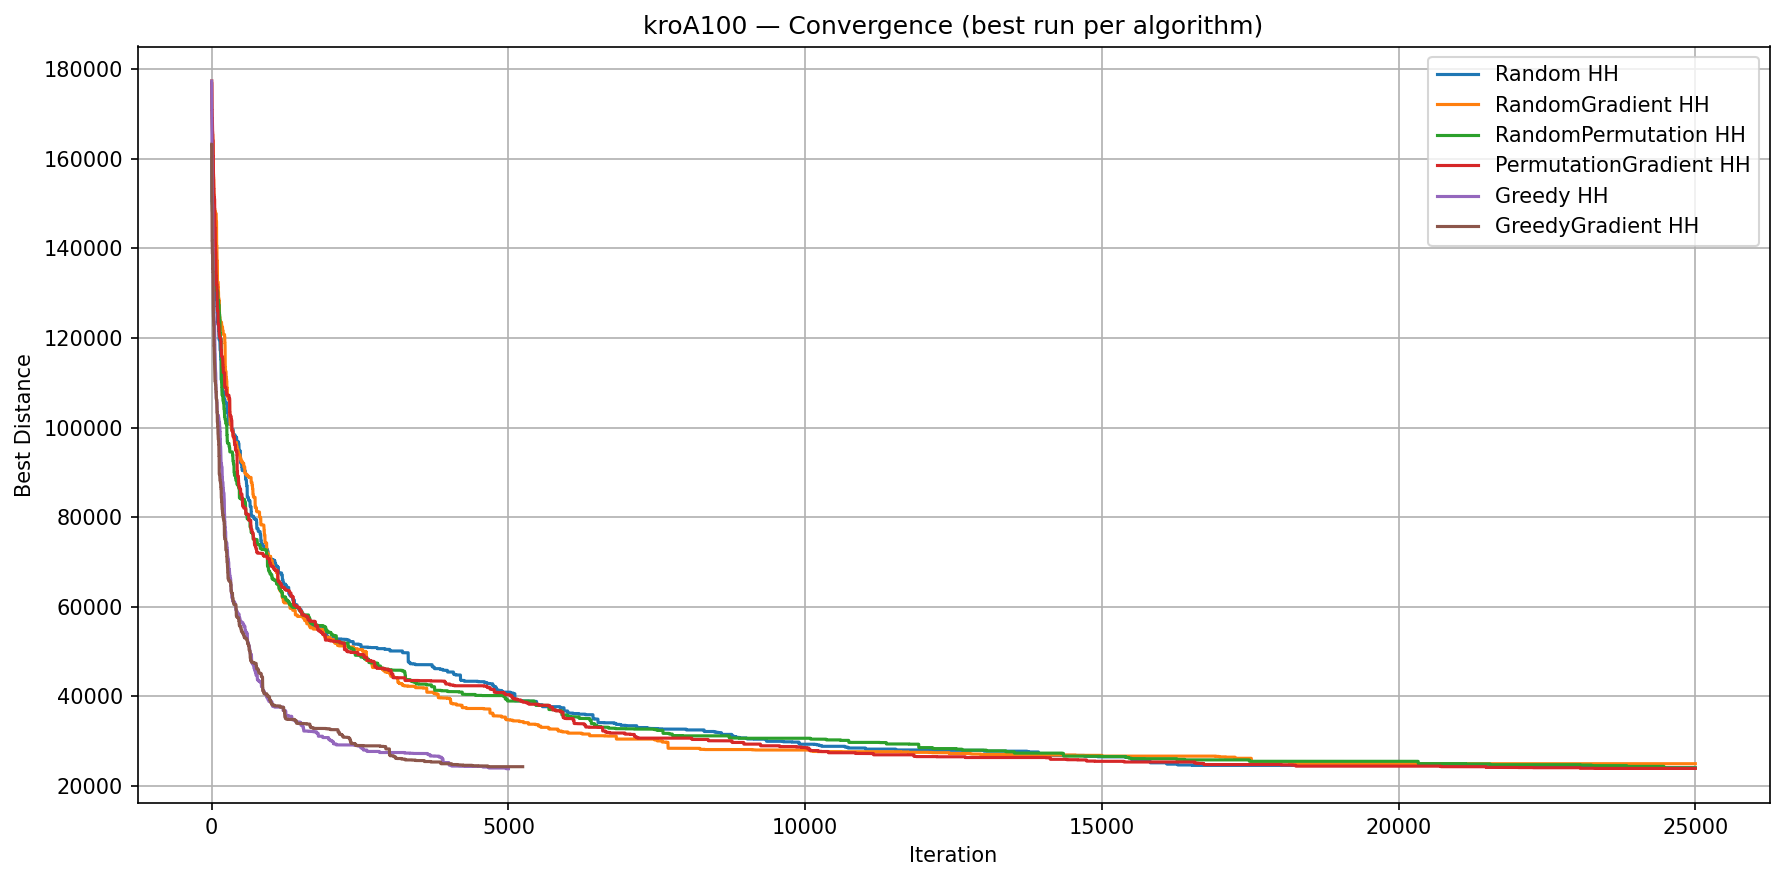
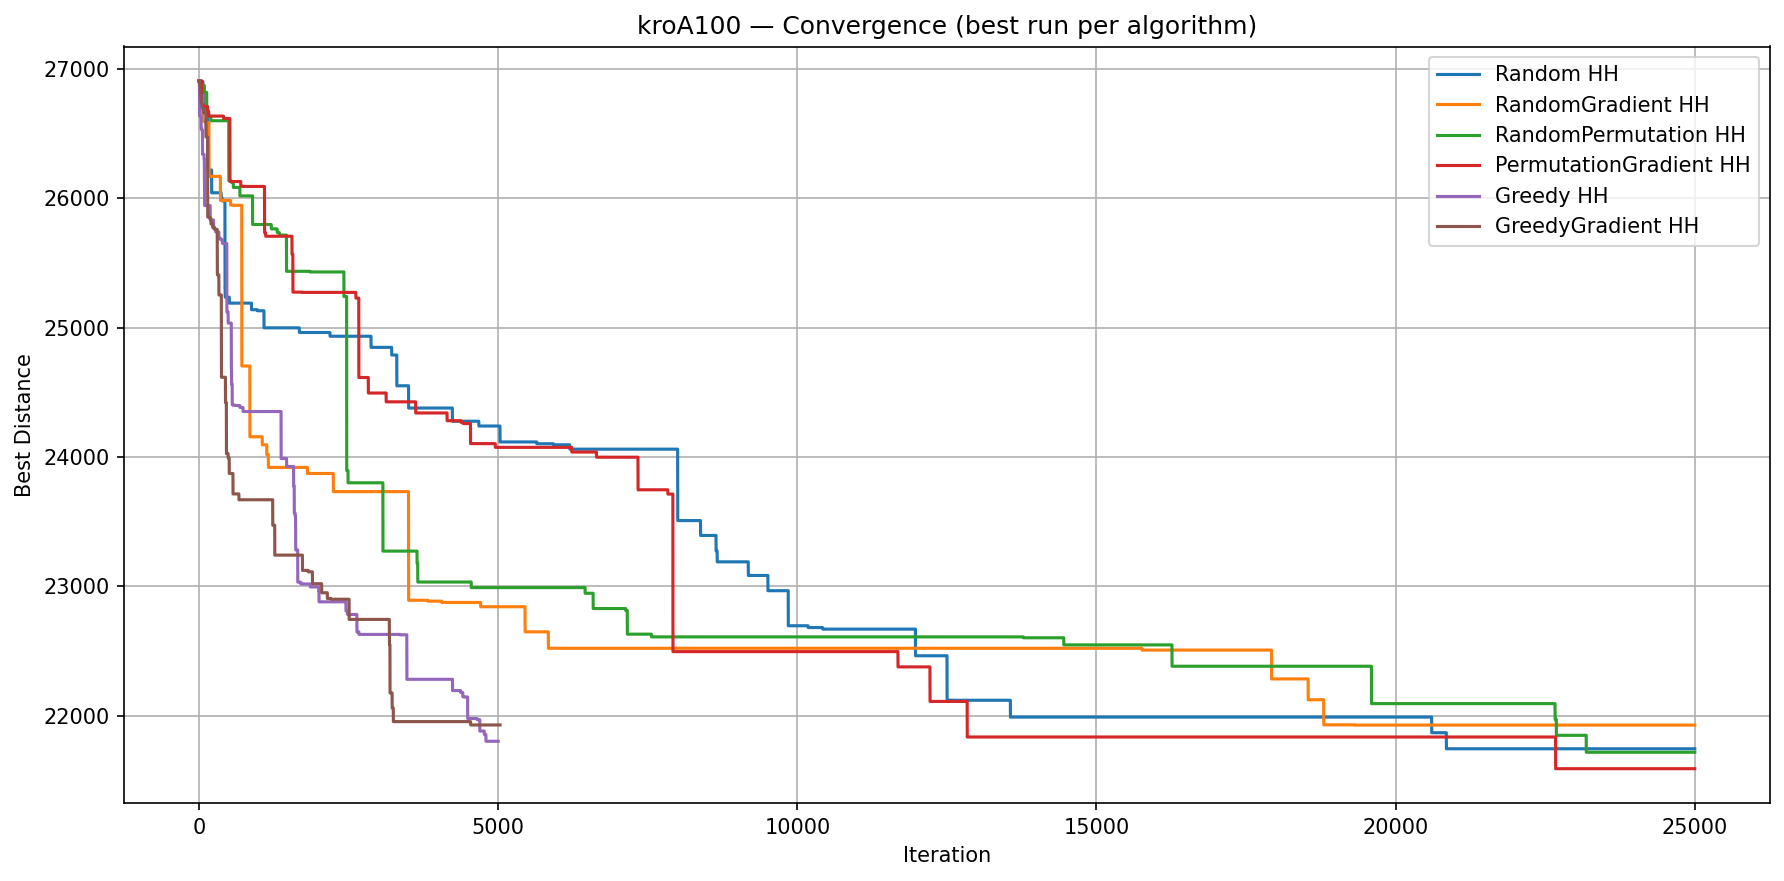
Added greedy route, fixed basic heuristics, fixed the info in the end

diff --git a/main.py b/main.py
@@ -14,7 +14,6 @@ DATASETS = [
     "kroA100"]
 
 
-
 # Loads tsplib datasets. Will probably be deprecated later
 def load_problem(name):
     problem = tsplib95.load(f"datasets/{name}.tsp")
@@ -43,6 +42,21 @@ def random_route(cities):
     random.shuffle(route)
     return route
 
+# Greedy route.
+def greedy_route(cities, distance_matrix):
+    unvisited = set(cities)
+    start = random.choice(cities)
+    route = [start]
+    unvisited.remove(start)
+
+    while unvisited:
+        current = route[-1]
+        nearest = min(unvisited, key=lambda c: distance_matrix[(current, c)])
+        route.append(nearest)
+        unvisited.remove(nearest)
+
+    return route
+
 
 # Swap two nodes
 def swap(route):
@@ -63,6 +77,9 @@ def insertion(route):
 def segment_shuffle(route):
     new_route = route[:]
     i, j = sorted(random.sample(range(len(route)), 2))
+    # Ensure minimum segment size of at least 5 for meaningful shuffling
+    if j - i < 5:
+        j = min(i + random.randint(5, max(6, len(route) // 3)), len(route))
     segment = new_route[i:j]
     random.shuffle(segment)
     new_route[i:j] = segment
@@ -71,45 +88,45 @@ def segment_shuffle(route):
 def two_opt(route):
     new_route = route[:]
     i, j = sorted(random.sample(range(len(route)), 2))
-    if j - i < 2:
-        return new_route
-    new_route[i:j] = reversed(new_route[i:j])
+    if j - i < 4:
+        j = i + 4  # Ensure at least 2 cities are swapped
+    new_route[i:j] = list(reversed(new_route[i:j]))
     return new_route
 
-def adjacent_swap(route):
-    new_route = route[:]
-    i = random.randint(0, len(route)-2)
-    new_route[i], new_route[i+1] = (new_route[i+1], new_route[i])
-    return new_route
+# def adjacent_swap(route):
+#     new_route = route[:]
+#     i = random.randint(0, len(route)-1)
+#     next_i = (i + 1) % len(route)
+#     new_route[i], new_route[next_i] = (new_route[next_i], new_route[i])
+#     return new_route
 
-# Defeats the purpose of Random Gradient
-def two_opt_local_search(route):
-    best_route = route[:]
-    best_distance = route_distance(best_route)
-    improved = True
+# Not sure if this is acceptable. Has basically built in Random Gradient
+# def two_opt_local_search(route):
+#     best_route = route[:]
+#     best_distance = route_distance(best_route)
+#     improved = True
 
-    while improved:
-        improved = False
-        for i in range(len(route) - 1):
-            for j in range(i + 2, len(route)):
+#     while improved:
+#         improved = False
+#         for i in range(len(route) - 1):
+#             for j in range(i + 2, len(route)):
 
-                candidate = best_route[:]
-                candidate[i:j] = reversed(candidate[i:j])
-                candidate_distance = route_distance(candidate)
+#                 candidate = best_route[:]
+#                 candidate[i:j] = reversed(candidate[i:j])
+#                 candidate_distance = route_distance(candidate)
 
-                if candidate_distance < best_distance:
-                    best_route = candidate
-                    best_distance = candidate_distance
-                    improved = True
+#                 if candidate_distance < best_distance:
+#                     best_route = candidate
+#                     best_distance = candidate_distance
+#                     improved = True
 
-        route = best_route
-    return best_route
+#         route = best_route
+#     return best_route
 
 tsp_heuristics = [
     ("swap", swap),
     ("insertion", insertion),
     ("segment_shuffle", segment_shuffle),
-    ("adjacent swap", adjacent_swap),
     ("two opt", two_opt),]
 
 
@@ -124,8 +141,8 @@ def initialize_stats():
 
 
 def random_hyperheuristic(initial_solution, objective_fn, heuristics, iterations=25000):
-    # objective_fn(solution) -> float, always minimised.
-    # For maximisation problems (e.g. knapsack), pass a negated objective.
+    # minimises the objective function.
+    # For maximisation problems should use a negative function.
 
     current = initial_solution[:]
     current_cost = objective_fn(current)
@@ -178,7 +195,7 @@ def random_hyperheuristic(initial_solution, objective_fn, heuristics, iterations
 
 def random_gradient(initial_solution, objective_fn, heuristics, iterations=25000):
     # objective_fn(solution) is always minimised.
-    # For maximisation problems like knapsack, we should oprimise for a negative value.
+    # For maximisation problems like knapsack, use a negative objective.
 
     current = initial_solution[:]
     current_cost = objective_fn(current)
@@ -234,8 +251,7 @@ def random_gradient(initial_solution, objective_fn, heuristics, iterations=25000
 
 
 def random_permutation(initial_solution, objective_fn, heuristics, iterations=25000):
-    # At each step, applies heuristics in a freshly shuffled order (one per iteration).
-    # A new permutation is generated each time the previous one is exhausted.
+    # At each step, applies heuristics in a new shuffled order.
 
     current = initial_solution[:]
     current_cost = objective_fn(current)
@@ -291,12 +307,8 @@ def random_permutation(initial_solution, objective_fn, heuristics, iterations=25
             "heuristic_history": heuristic_history,
             "runtime": runtime}
 
-
+# Creates a random heuristic list, but keeps applying the current heuristic as long as it keeps improving.
 def permutation_gradient(initial_solution, objective_fn, heuristics, iterations=25000):
-    # Follows a shuffled permutation order, but keeps applying the current heuristic
-    # as long as it keeps improving. Only advances in the permutation on failure.
-    # A new permutation is generated once the current one is exhausted.
-
     current = initial_solution[:]
     current_cost = objective_fn(current)
     best = current[:]
@@ -318,7 +330,7 @@ def permutation_gradient(initial_solution, objective_fn, heuristics, iterations=
         candidate = heuristic(current)
         candidate_cost = objective_fn(candidate)
 
-        # Improvement found: stay with this heuristic
+        # Improvement found: keep heuristic
         if candidate_cost < current_cost:
 
             gain = current_cost - candidate_cost
@@ -330,7 +342,7 @@ def permutation_gradient(initial_solution, objective_fn, heuristics, iterations=
             if gain > heuristic_stats[heuristic_name]["best_single_gain"]:
                 heuristic_stats[heuristic_name]["best_single_gain"] = gain
 
-        # No improvement: advance to next in permutation
+        # No improvement
         else:
 
             perm_index += 1
@@ -355,9 +367,8 @@ def permutation_gradient(initial_solution, objective_fn, heuristics, iterations=
             "heuristic_history": heuristic_history,
             "runtime": runtime}
 
-
+# Each iteration applies all heuristics to the current solution and accepts the one that gives the best improvement.
 def greedy(initial_solution, objective_fn, heuristics, iterations=25000):
-    # Each iteration applies all heuristics to the current solution and accepts the one with the best.
     current = initial_solution[:]
     current_cost = objective_fn(current)
     best = current[:]
@@ -419,9 +430,7 @@ def greedy(initial_solution, objective_fn, heuristics, iterations=25000):
 
 
 def greedy_gradient(initial_solution, objective_fn, heuristics, iterations=25000):
-    # Runs a greedy round to find the best heuristic, then keeps applying it
-    # as long as it improves. When a full greedy round finds no improvement,
-    # a new greedy round is run to pick the next best heuristic.
+    # Runs a greedy round to find the best heuristic, then keeps applying it as long as it improves.
 
     current = initial_solution[:]
     current_cost = objective_fn(current)
@@ -552,93 +561,93 @@ def greedy_gradient(initial_solution, objective_fn, heuristics, iterations=25000
             "heuristic_history": heuristic_history,
             "runtime": runtime}
 
+if __name__ == "__main__":
+    all_results = []
 
-all_results = []
+    for dataset_name in DATASETS:
 
-for dataset_name in DATASETS:
+        print(f"Dataset: {dataset_name}")
+        problem, cities, distance_matrix = load_problem(dataset_name)
 
-    print(f"Dataset: {dataset_name}")
-    problem, cities, distance_matrix = load_problem(dataset_name)
+        # TSP objective: minimise total route distance
+        def tsp_objective(route):
+            return route_distance(route, distance_matrix)
 
-    # TSP objective: minimise total route distance
-    def tsp_objective(route):
-        return route_distance(route, distance_matrix)
+        algorithms = [
+            ("Random HH",            random_hyperheuristic),
+            ("RandomGradient HH",    random_gradient),
+            ("RandomPermutation HH", random_permutation),
+            ("PermutationGradient HH", permutation_gradient),
+            ("Greedy HH",            greedy),
+            ("GreedyGradient HH",    greedy_gradient),]
 
-    algorithms = [
-        ("Random HH",            random_hyperheuristic),
-        ("RandomGradient HH",    random_gradient),
-        ("RandomPermutation HH", random_permutation),
-        ("PermutationGradient HH", permutation_gradient),
-        ("Greedy HH",            greedy),
-        ("GreedyGradient HH",    greedy_gradient),
-    ]
+        all_run_results = {label: [] for label, _ in algorithms}
 
-    all_run_results = {label: [] for label, _ in algorithms}
+        # How the starting route is selected
+        initial = greedy_route(cities, distance_matrix)
+        # initial = random_route(cities)
 
-    for run in range(RUNS):
+        for run in range(RUNS):
 
-        print(f"Run {run + 1}/{RUNS}")
-
-        random.seed(SEED + run)
-        np.random.seed(SEED + run)
-        initial = random_route(cities)
-
-        for label, runner in algorithms:
+            print(f"Run {run + 1}/{RUNS}")
             random.seed(SEED + run)
             np.random.seed(SEED + run)
-            result = runner(initial, tsp_objective, tsp_heuristics, ITERATIONS)
-            all_run_results[label].append(result)
 
-    # --- Print summary stats for each algorithm ---
-    dataset_row = {"dataset": dataset_name}
+            for label, runner in algorithms:
+                random.seed(SEED + run)
+                np.random.seed(SEED + run)
+                result = runner(initial, tsp_objective, tsp_heuristics, ITERATIONS)
+                all_run_results[label].append(result)
 
-    for label, _ in algorithms:
-        costs = [r["best_cost"] for r in all_run_results[label]]
-        slug = label.lower().replace(" ", "_")
+        dataset_row = {"dataset": dataset_name}
 
-        print(f"\n{label}")
-        print("Average:", np.mean(costs))
-        print("Std:    ", np.std(costs))
-        print("Best:   ", np.min(costs))
+        for label, _ in algorithms:
+            costs = [r["best_cost"] for r in all_run_results[label]]
+            slug = label.lower().replace(" ", "_")
 
-        dataset_row[f"{slug}_avg"]  = np.mean(costs)
-        dataset_row[f"{slug}_std"]  = np.std(costs)
-        dataset_row[f"{slug}_best"] = np.min(costs)
+            print(f"\n{label}")
+            print("Average:", np.mean(costs))
+            print("Std:    ", np.std(costs))
+            print("Best:   ", np.min(costs))
 
-    all_results.append(dataset_row)
+            dataset_row[f"{slug}_avg"]  = np.mean(costs)
+            dataset_row[f"{slug}_std"]  = np.std(costs)
+            dataset_row[f"{slug}_best"] = np.min(costs)
 
-    plt.figure(figsize=(12, 6))
+        all_results.append(dataset_row)
 
-    for label, _ in algorithms:
-        best_result = min(all_run_results[label], key=lambda r: r["best_cost"])
-        plt.plot(best_result["history"], label=label)
+        plt.figure(figsize=(12, 6))
 
-    plt.xlabel("Iteration")
-    plt.ylabel("Best Distance")
-    plt.title(f"{dataset_name} — Convergence (best run per algorithm)")
-    plt.legend()
-    plt.grid(True)
-    plt.tight_layout()
-    plt.savefig(f"{dataset_name}_convergence.png", dpi=150, bbox_inches="tight")
-    plt.close()
+        for label, _ in algorithms:
+            best_result = min(all_run_results[label], key=lambda r: r["best_cost"])
+            plt.plot(best_result["history"], label=label)
 
-    for label, _ in algorithms:
+        plt.xlabel("Iteration")
+        plt.ylabel("Best Distance")
+        plt.title(f"{dataset_name} — Convergence (best run per algorithm)")
+        plt.legend()
+        plt.grid(True)
+        plt.tight_layout()
+        plt.savefig(f"{dataset_name}_convergence.png", dpi=150, bbox_inches="tight")
+        plt.close()
 
-        best_result = min(all_run_results[label], key=lambda r: r["best_cost"])
-        stats = best_result["heuristic_stats"]
-        print(f"\n--- {label} heuristic stats (best run) ---")
+        for label, _ in algorithms:
 
-        for heuristic_name, values in stats.items():
+            best_result = min(all_run_results[label], key=lambda r: r["best_cost"])
+            stats = best_result["heuristic_stats"]
+            print(f"\n--- {label} heuristic stats (best run) ---")
 
-            used = values["used"]
-            improvements = values["improvements"]
-            acceptance_rate = improvements / used if used > 0 else 0
-            print(f"\n  {heuristic_name}")
-            print("Used:", used)
-            print("Improvements:", improvements)
-            print("Acceptance rate:", round(acceptance_rate, 4))
-            print("Total gain:", round(values["total_gain"], 2))
-            print("Best single gain:", round(values["best_single_gain"], 2))
+            for heuristic_name, values in stats.items():
 
-results_df = pd.DataFrame(all_results)
-results_df.to_csv("results_summary.csv", index=False)
+                used = values["used"]
+                improvements = values["improvements"]
+                acceptance_rate = improvements / used if used > 0 else 0
+                print(f"\n  {heuristic_name}")
+                print("Used:", used)
+                print("Improvements:", improvements)
+                print("Acceptance rate:", round(acceptance_rate, 4))
+                print("Total gain:", round(values["total_gain"], 2))
+                print("Best single gain:", round(values["best_single_gain"], 2))
+
+    results_df = pd.DataFrame(all_results)
+    results_df.to_csv("results_summary.csv", index=False)

diff --git a/test.py b/test.py
@@ -1,1 +1,7 @@
-route = [1,2,3,4]
+import main
+# route = [1, 5, 3, 6, 2, 4, 7, 8, 9, 10]
+route = ["a", "b", "c", "d", "e", "f", "g", "h"]
+print(main.insertion(route))
+print(main.two_opt(route))
+print(main.swap(route))
+print(main.segment_shuffle(route))
